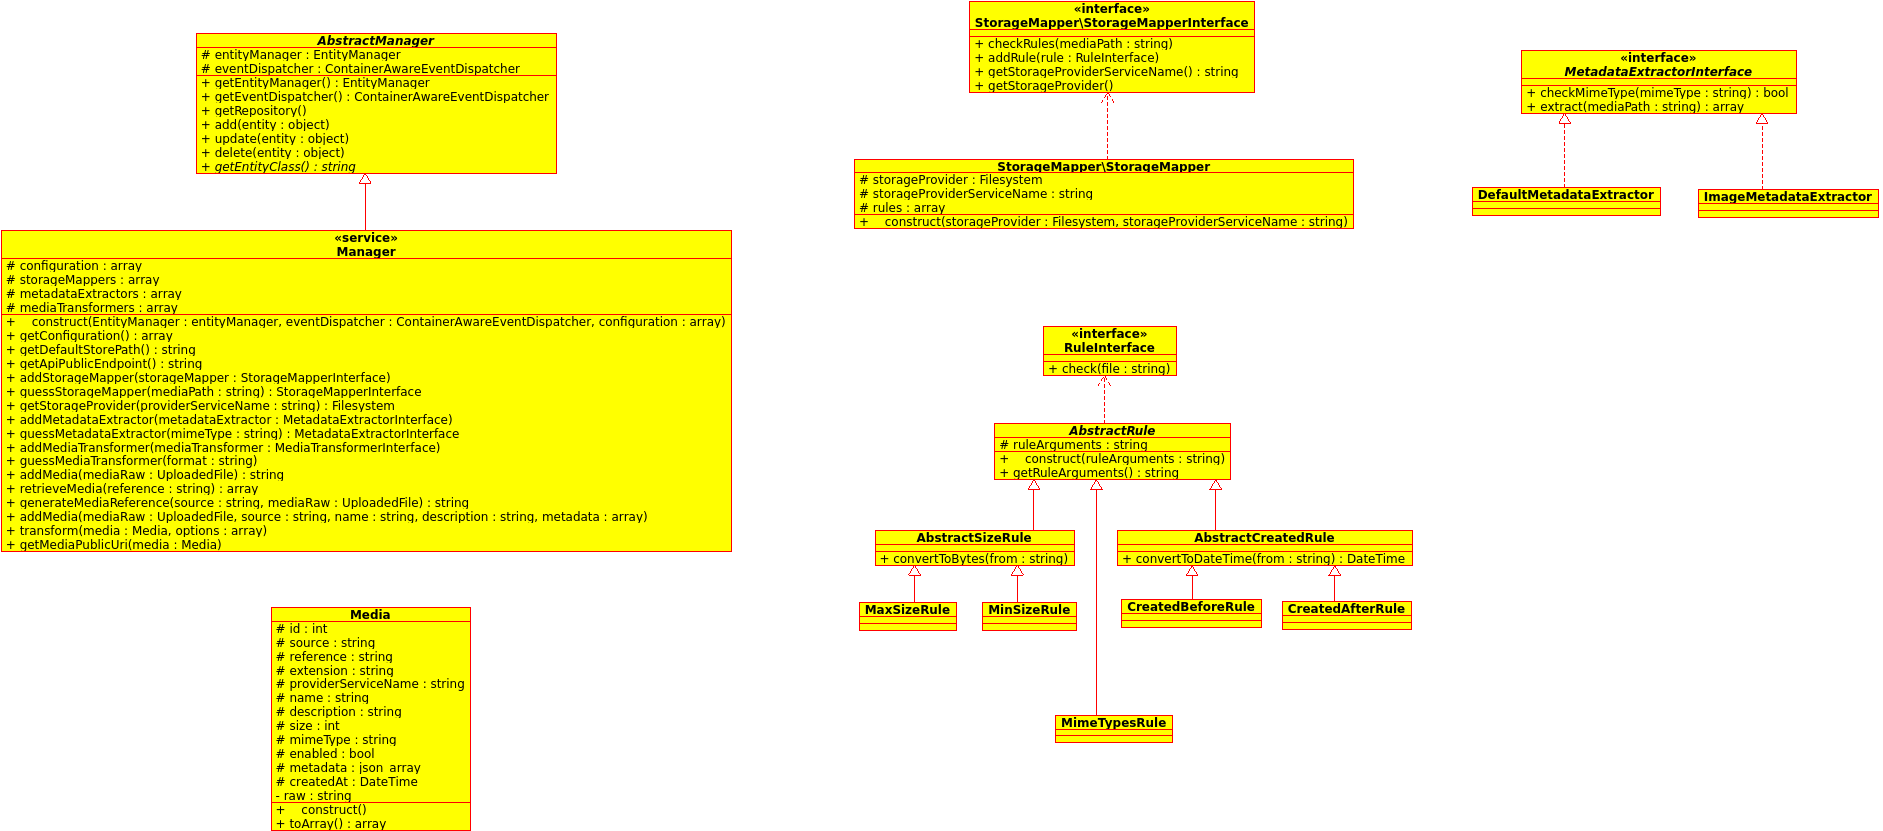
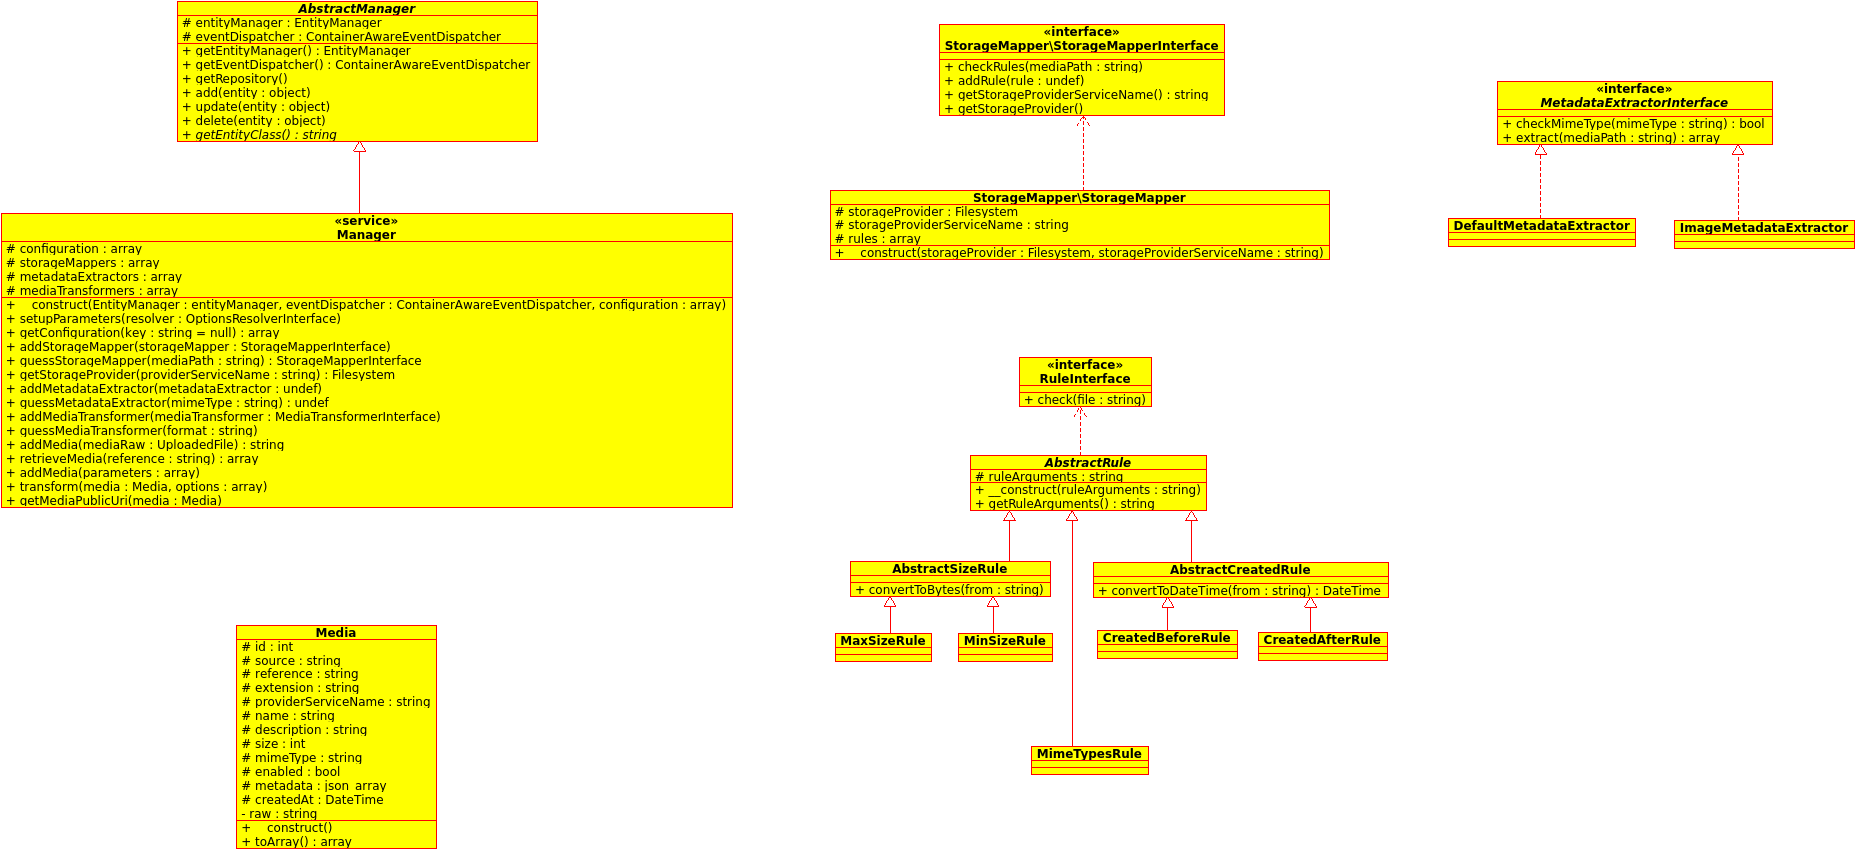
Update uml schema

diff --git a/Manager/MediaManager.php b/Manager/MediaManager.php
@@ -139,31 +139,20 @@ class MediaManager extends AbstractManager
     /**
      * Return the configuration
      *
-     * @return array
+     * @param string $key The configuration key to retrieve if given.
+     * @return mixed
      */
-    public function getConfiguration()
+    public function getConfiguration($key = null)
     {
-        return $this->configuration;
-    }
+        if (null === $key) {
+            return $this->configuration;
+        }
 
-    /**
-     * Get the default store path
-     *
-     * @return string
-     */
-    public function getDefaultStorePath()
-    {
-        return $this->configuration['default_store_path'];
-    }
+        if (isset($this->configuration[$key])) {
+            return $this->configuration[$key];
+        }
 
-    /**
-     * Get the api public endpoint
-     *
-     * @return string
-     */
-    public function getApiPublicEndpoint()
-    {
-        return $this->configuration['api_public_endpoint'];
+        return null;
     }
 
     /**
@@ -353,7 +342,12 @@ class MediaManager extends AbstractManager
     {
         $resolver = new OptionsResolver();
         $this->setupParameters($resolver);
-        $resolvedParameters = $resolver->resolve($parameters);
+        $resolvedParameters = $resolver->resolve(array_merge(
+            array(
+                'default_store_path' => $this->getConfiguration('default_store_path')
+            ),
+            $parameters
+        ));
 
         $media = $this->findOneBy(array(
             'reference' => $resolvedParameters['reference']
@@ -440,7 +434,7 @@ class MediaManager extends AbstractManager
     public function getMediaPublicUri(Media $media)
     {
         return sprintf('%s/media/%s',
-            $this->getApiPublicEndpoint(),
+            $this->getConfiguration('api_public_endpoint'),
             $media->getReference()
         );
     }
